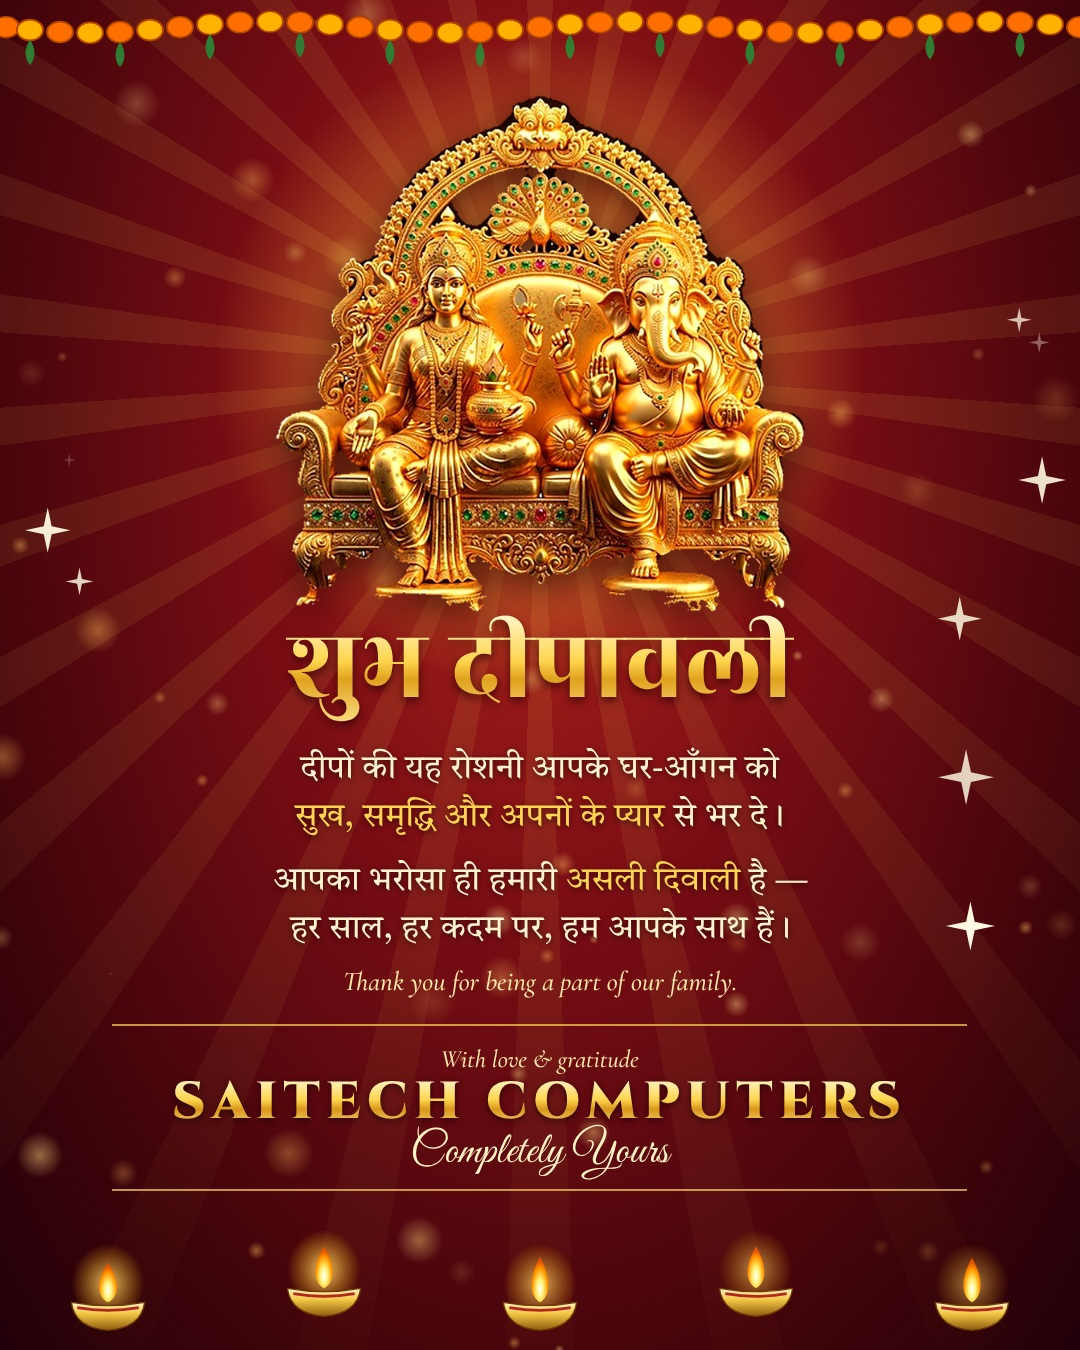
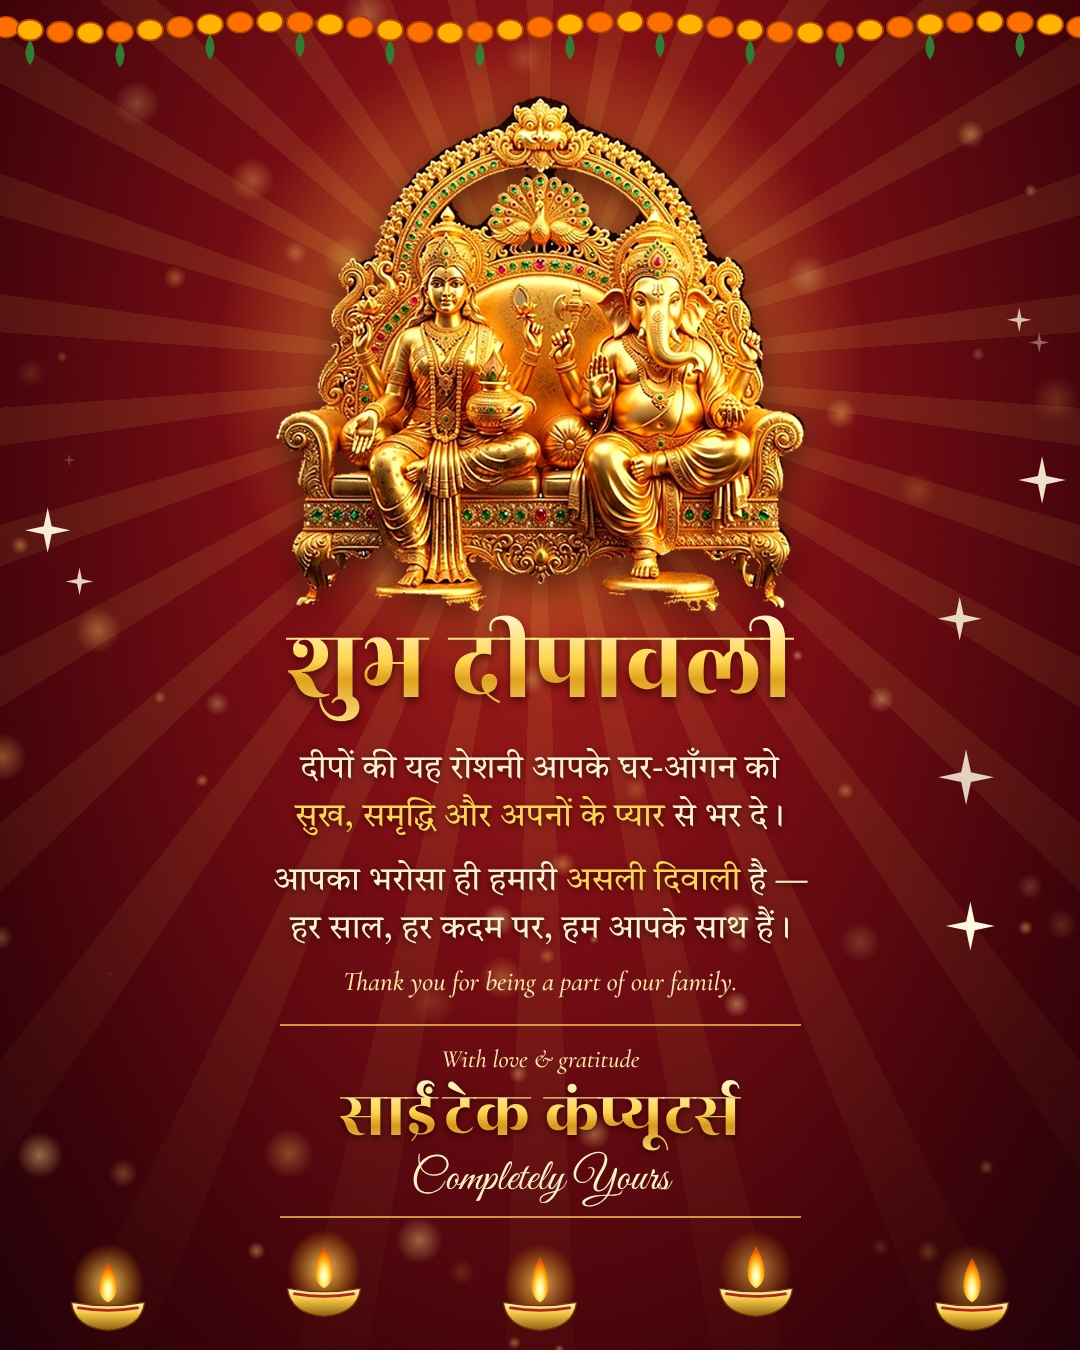
Poster: write brand name in Hindi (साईंटेक कंप्यूटर्स)
Claude-Session: https://claude.ai/code/session_016X4qCghnR3fgjC58khQAcr

Changed region(s): [[0.1528, 0.7778, 0.825, 0.9022]]

diff --git a/diwali-sticker/greeting/greeting.html b/diwali-sticker/greeting/greeting.html
@@ -26,7 +26,7 @@
   .brand{text-align:center;padding:calc(18*var(--u)) calc(60*var(--u)) calc(14*var(--u));position:relative;
     border-top:calc(2*var(--u)) solid rgba(255,213,79,.7);border-bottom:calc(2*var(--u)) solid rgba(255,213,79,.7)}
   .brand .with{font-family:'Cormorant Garamond',serif;font-style:italic;color:#FFE9A8}
-  .brand .name{font-family:Cinzel,serif;font-weight:900;letter-spacing:.12em;line-height:1.1;
+  .brand .name{font-family:'Rozha One',serif;letter-spacing:0;line-height:1.25;
     background:linear-gradient(180deg,#FFFBE0 0%,#FFD54F 45%,#D9961A 62%,#FFE38A 100%);-webkit-background-clip:text;background-clip:text;color:transparent;
     filter:drop-shadow(0 2px 3px rgba(0,0,0,.6))}
   .brand .tag{font-family:'Great Vibes',cursive;color:#FFF3C4;line-height:1}
@@ -47,7 +47,7 @@
     <div class="en" id="en" data-in="6.6,1.0">Thank you for being a part of our family.</div>
     <div class="brand" id="brand" data-in="7.4,1.2,0.94">
       <div class="with">With love &amp; gratitude</div>
-      <div class="name">SAITECH COMPUTERS</div>
+      <div class="name">साईंटेक कंप्यूटर्स</div>
       <div class="tag">Completely Yours</div>
     </div>
   </div>
@@ -69,7 +69,7 @@ document.getElementById('title').style.fontSize=px(L.title);
 ['m1','m2'].forEach(i=>document.getElementById(i).style.fontSize=px(L.m));
 document.getElementById('en').style.fontSize=px(L.en);
 const br=document.getElementById('brand');
-br.querySelector('.name').style.fontSize=px(L.brandName); br.querySelector('.with').style.fontSize=px(L.brandWith); br.querySelector('.tag').style.fontSize=px(L.tag);
+br.querySelector('.name').style.fontSize=px(L.brandName*1.3); br.querySelector('.with').style.fontSize=px(L.brandWith); br.querySelector('.tag').style.fontSize=px(L.tag);
 ['title','m1','m2','en','brand'].forEach((id,i)=>document.getElementById(id).style.marginTop=px(L.gaps[i+1]));
 document.getElementById('title').style.marginTop=px(V?10:-6);
 const rays=document.getElementById('rays'); rays.style.top=px(L.raysY-1300);
